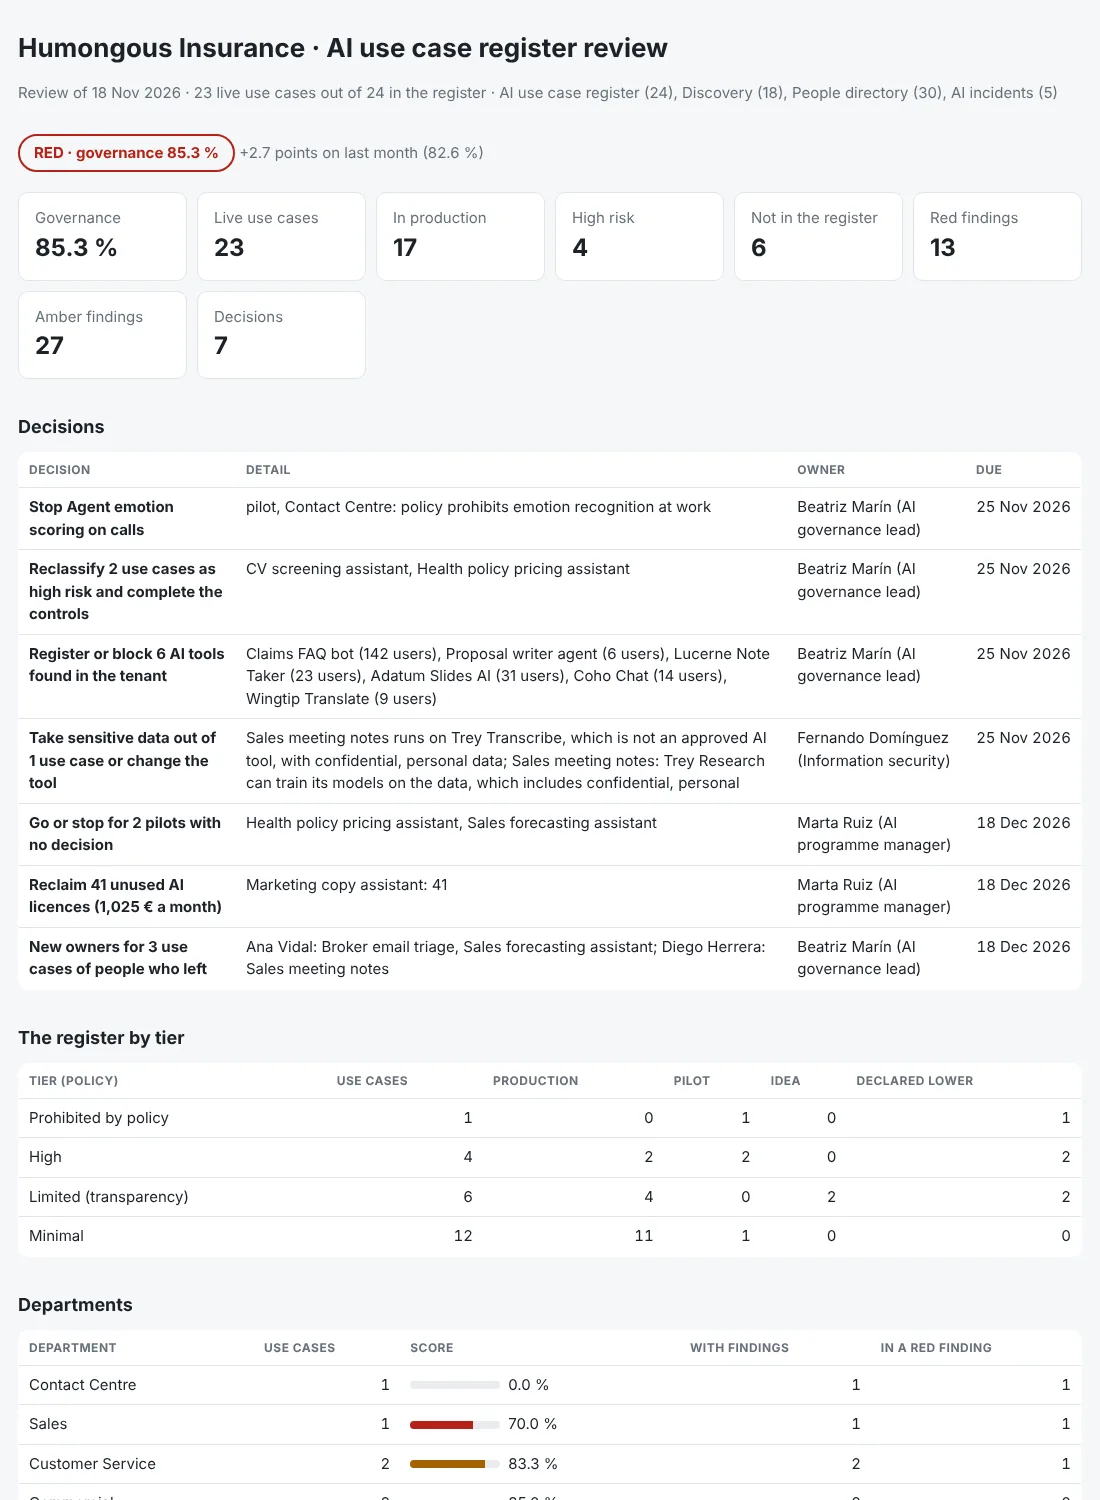
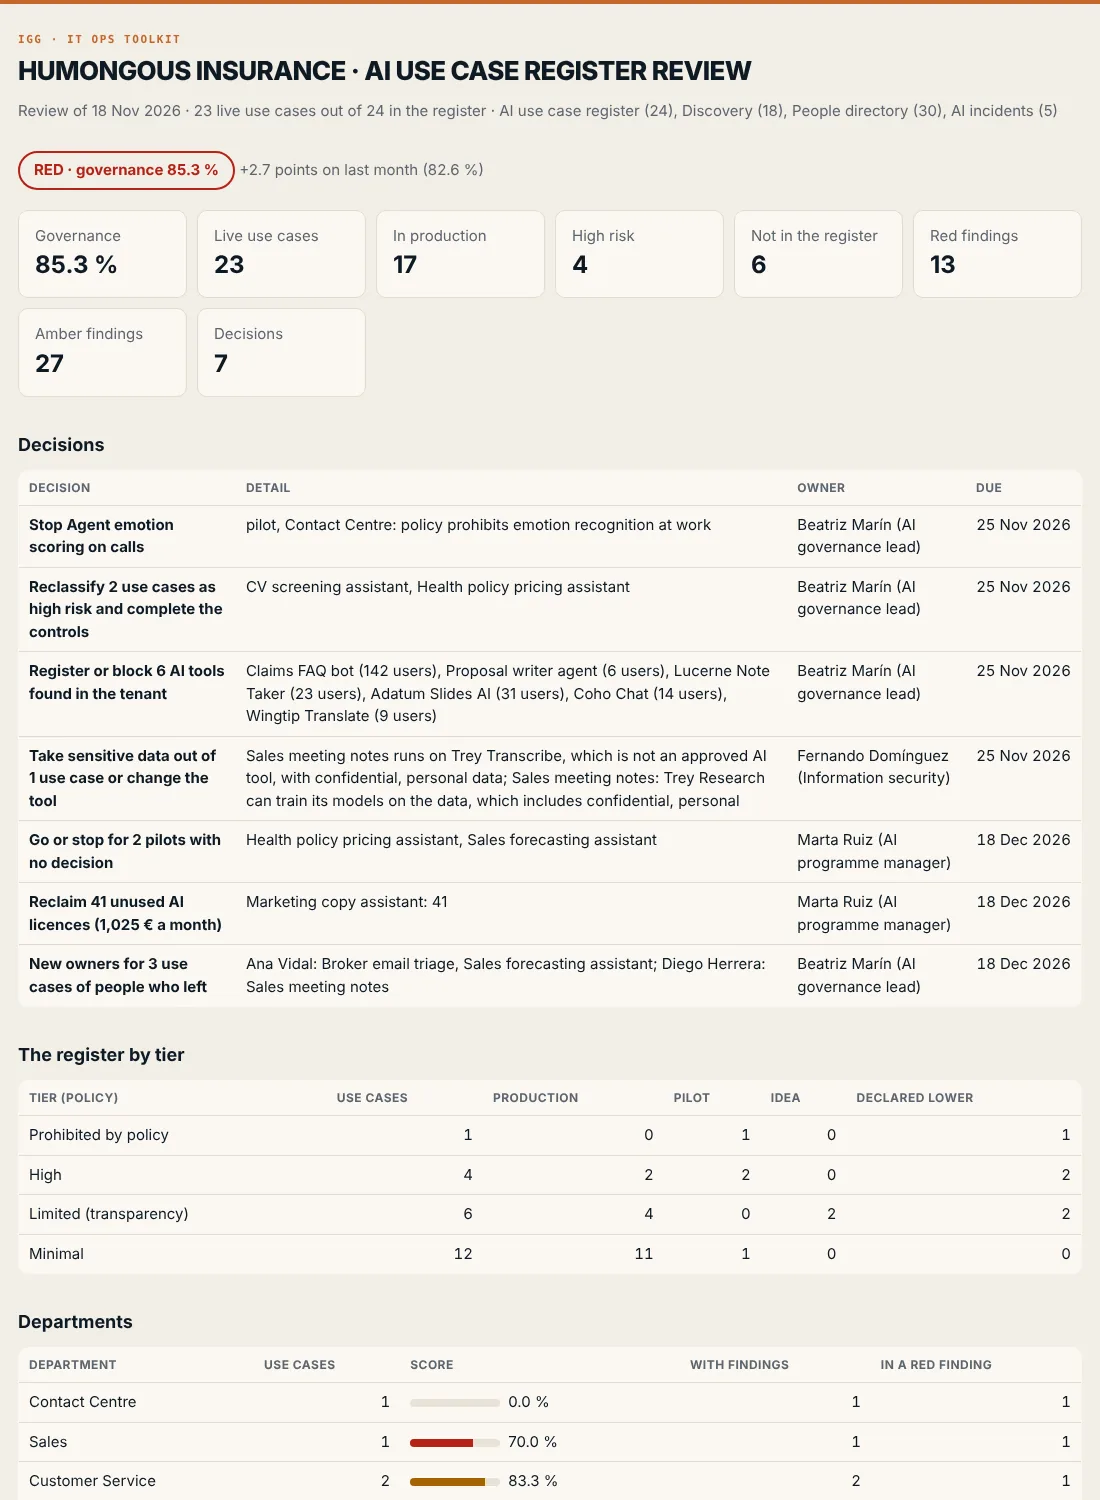
Report: IGG colours (paper, ink and the orange accent) and a new screenshot

diff --git a/aireg/report.py b/aireg/report.py
@@ -72,10 +72,10 @@ def pack_md(d: Data, rv: Review, title: str) -> str:
 
 
 CSS = """
-:root{--bg:#f6f7f8;--card:#fff;--ink:#1b2128;--muted:#66717c;--line:#e2e5e9;--ok:#1e7a4c;--warn:#a46200;--bad:#b42318;--track:#e9ecef}
-@media (prefers-color-scheme:dark){:root{--bg:#13171b;--card:#1b2127;--ink:#e7eaee;--muted:#9aa5b0;--line:#2b333b;--ok:#4cc38a;
+:root{--bg:#f2eee6;--card:#fbf8f3;--ink:#0e1a24;--muted:#5d6670;--line:#e2dccf;--ok:#1e7a4c;--warn:#a46200;--bad:#b42318;--track:#e8e2d6}
+@media (prefers-color-scheme:dark){:root{--bg:#0e1a24;--card:#142331;--ink:#f2eee6;--muted:#a9b3bb;--line:#24364a;--ok:#4cc38a;
 --warn:#f0a83a;--bad:#f2685c;--track:#2b333b}}
-*{box-sizing:border-box}body{margin:0;background:var(--bg);color:var(--ink);font:15px/1.5 system-ui,-apple-system,Segoe UI,sans-serif}
+*{box-sizing:border-box}body{border-top:4px solid #c4672b}h1{font-weight:800;letter-spacing:-.025em;text-transform:uppercase;line-height:1.05}h1::before{content:"IGG · IT Ops toolkit";display:block;font:600 11px/1.4 ui-monospace,SFMono-Regular,Menlo,monospace;letter-spacing:.14em;text-transform:uppercase;color:#c4672b;margin-bottom:10px}body{margin:0;background:var(--bg);color:var(--ink);font:15px/1.5 system-ui,-apple-system,Segoe UI,sans-serif}
 main{max-width:1100px;margin:0 auto;padding:28px 18px 60px}h1{font-size:26px;margin:0 0 4px}h2{font-size:18px;margin:34px 0 12px}
 .muted{color:var(--muted)}.tiles{display:grid;grid-template-columns:repeat(auto-fit,minmax(150px,1fr));gap:10px;margin-top:20px}
 .tile{background:var(--card);border:1px solid var(--line);border-radius:10px;padding:14px 16px}.tile b{display:block;font-size:24px}
